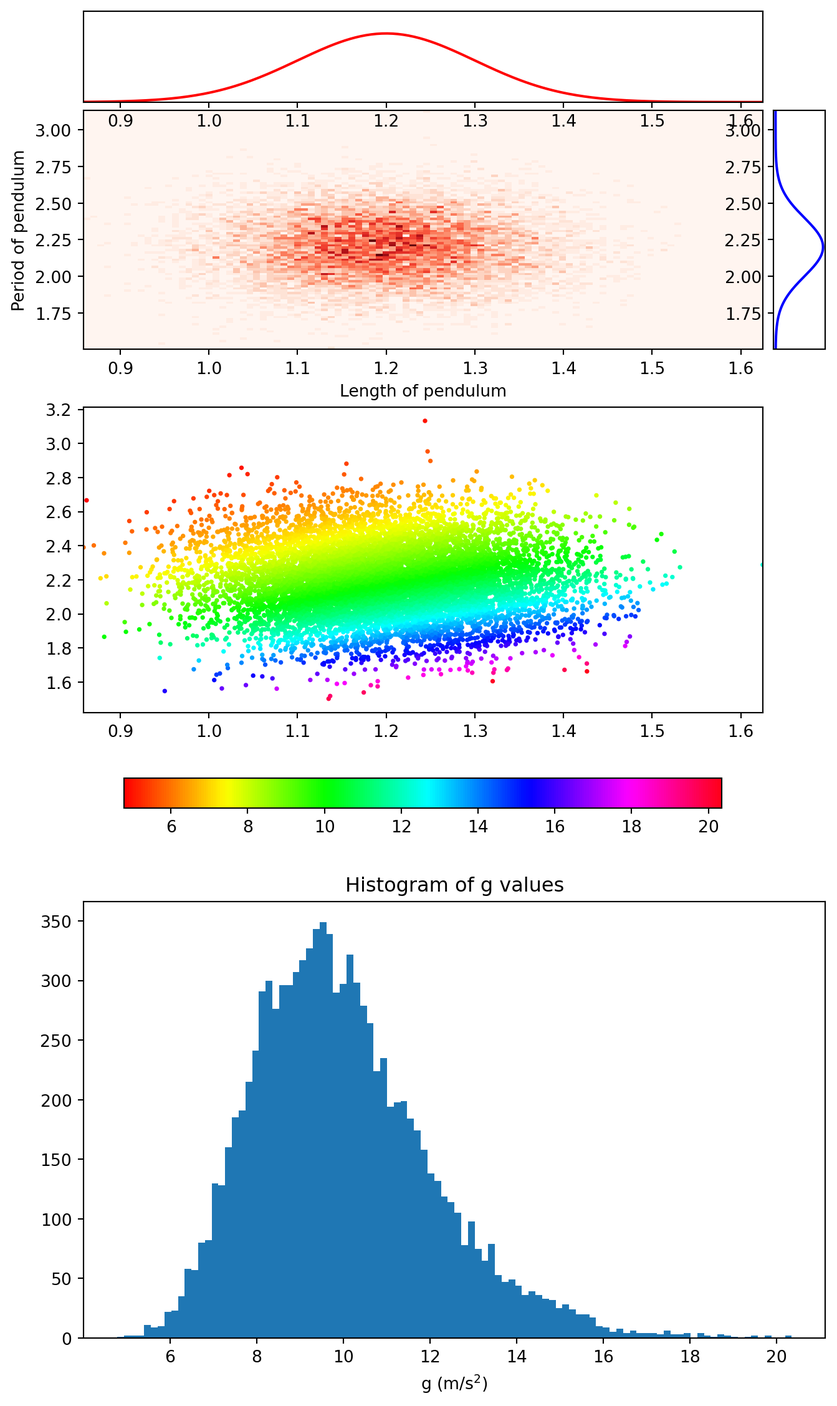
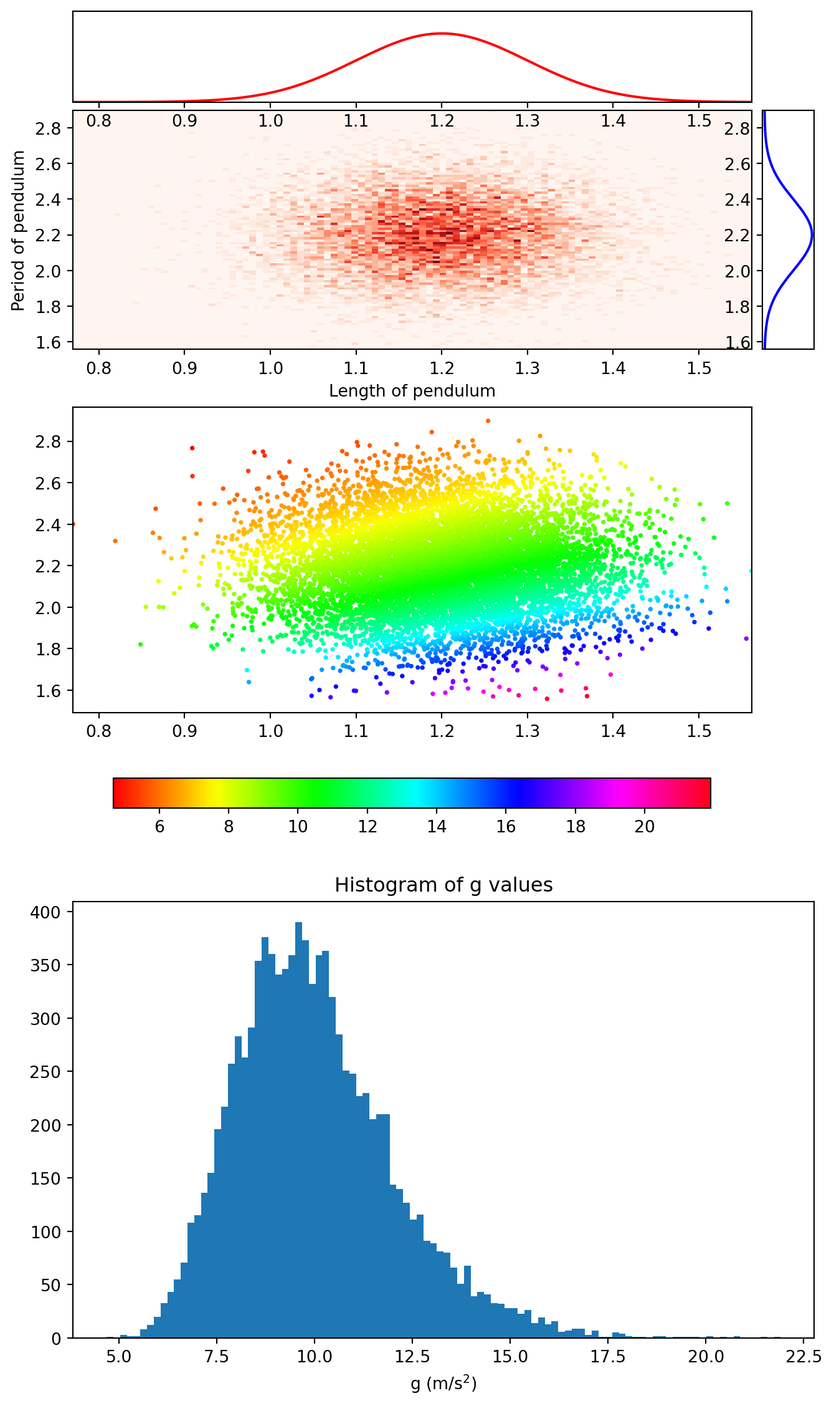
Minor tweaks in lab 9

diff --git a/docs/labs/Lab9-One-D-Eulers-Uncertainty/L9-One-D-Eulers-Uncertainty.html b/docs/labs/Lab9-One-D-Eulers-Uncertainty/L9-One-D-Eulers-Uncertainty.html
@@ -252,17 +252,16 @@ pre > code.sourceCode > span > a:first-child::before { text-decoration: underlin
   <li><a href="#activity-i-modeling-the-balloons-motion-eulers-method" id="toc-activity-i-modeling-the-balloons-motion-eulers-method" class="nav-link" data-scroll-target="#activity-i-modeling-the-balloons-motion-eulers-method">Activity I: Modeling the balloon’s motion (Euler’s Method)</a>
   <ul class="collapse">
   <li><a href="#goal-overview" id="toc-goal-overview" class="nav-link" data-scroll-target="#goal-overview">Goal (Overview)</a></li>
-  <li><a href="#procedure" id="toc-procedure" class="nav-link" data-scroll-target="#procedure">Procedure</a></li>
   </ul></li>
   <li><a href="#activity-ii-including-uncertainty" id="toc-activity-ii-including-uncertainty" class="nav-link" data-scroll-target="#activity-ii-including-uncertainty">Activity II: Including Uncertainty</a>
   <ul class="collapse">
   <li><a href="#goal-overview-1" id="toc-goal-overview-1" class="nav-link" data-scroll-target="#goal-overview-1">Goal (Overview)</a></li>
-  <li><a href="#procedure-1" id="toc-procedure-1" class="nav-link" data-scroll-target="#procedure-1">Procedure</a></li>
+  <li><a href="#procedure" id="toc-procedure" class="nav-link" data-scroll-target="#procedure">Procedure</a></li>
   </ul></li>
   <li><a href="#activity-iii-checking-our-prediction" id="toc-activity-iii-checking-our-prediction" class="nav-link" data-scroll-target="#activity-iii-checking-our-prediction">Activity III: Checking our Prediction</a>
   <ul class="collapse">
   <li><a href="#goal-overview-2" id="toc-goal-overview-2" class="nav-link" data-scroll-target="#goal-overview-2">Goal (Overview):</a></li>
-  <li><a href="#procedure-2" id="toc-procedure-2" class="nav-link" data-scroll-target="#procedure-2">Procedure</a></li>
+  <li><a href="#procedure-1" id="toc-procedure-1" class="nav-link" data-scroll-target="#procedure-1">Procedure</a></li>
   </ul></li>
   </ul>
 </nav>
@@ -362,12 +361,12 @@ F_D = {1\over 2} \rho_\text{air} A_\text{balloon} C |v| v
 <section id="while-loops" class="level3">
 <h3 class="anchored" data-anchor-id="while-loops"><code>While</code> Loops</h3>
 <p>Last week we used a <code>for</code> loop with Euler’s method, which was a good first choice because its easy to understand. However a <code>for</code> loop is often a clunky approach because we often don’t know how many iterations need to be performed to achieve the desired result. For example, last week we showed an example of Euler’s method for a particle launched straight upward and allowed to travel up and then come back down and hit the ground. Instead of performing a specified number of iterations of this loop, it would be nice to let the loop continue until the particle hit the ground. We can do this with a <code>while</code> loop which has the following basic structure:</p>
-<div class="cell" data-execution_count="2">
+<div class="cell" data-execution_count="1">
 <div class="sourceCode cell-code" id="cb1"><pre class="sourceCode python code-with-copy"><code class="sourceCode python"><span id="cb1-1"><a href="#cb1-1" aria-hidden="true" tabindex="-1"></a><span class="cf">while</span> <span class="op">&lt;</span>stopping condition<span class="op">&gt;</span></span>
 <span id="cb1-2"><a href="#cb1-2" aria-hidden="true" tabindex="-1"></a>     <span class="op">&lt;</span>Body of loop<span class="op">&gt;</span></span></code><button title="Copy to Clipboard" class="code-copy-button"><i class="bi"></i></button></pre></div>
 </div>
 <p>The <code>&lt;stopping condition&gt;</code> is a statement that determines whether the loop will continue to run or not. If the statement evaluates to <code>True</code>, the loop continues and if it evaluates to <code>False</code>, it will stop. As a simple example let’s use a <code>while</code> loop find the first 20 numbers in the fibonacci sequence:</p>
-<div class="cell" data-execution_count="3">
+<div class="cell" data-execution_count="2">
 <div class="sourceCode cell-code" id="cb2"><pre class="sourceCode python code-with-copy"><code class="sourceCode python"><span id="cb2-1"><a href="#cb2-1" aria-hidden="true" tabindex="-1"></a>previous <span class="op">=</span> <span class="dv">1</span> <span class="co"># First number in the Fibonacci sequence</span></span>
 <span id="cb2-2"><a href="#cb2-2" aria-hidden="true" tabindex="-1"></a>current <span class="op">=</span> <span class="dv">1</span> <span class="co"># Second number in the Fibonacci sequence</span></span>
 <span id="cb2-3"><a href="#cb2-3" aria-hidden="true" tabindex="-1"></a>n <span class="op">=</span> <span class="dv">2</span></span>
@@ -380,7 +379,7 @@ F_D = {1\over 2} \rho_\text{air} A_\text{balloon} C |v| v
 </div>
 <p>The stopping condition for this loop is <code>n &lt; 20</code>, where <code>n</code> is counting how many numbers in the sequence have been found so far. This variable starts off with a value of <span class="math inline">\(2\)</span> and increases by <span class="math inline">\(1\)</span> every time that another number is found. Once the value of <code>n</code> reaches <span class="math inline">\(20\)</span>, the statement <code>n &lt; 20</code> produces a <code>False</code> and the loop terminates.</p>
 <p><code>while</code> loops should be used with caution because you can easily write a <em>faulty stopping condition</em> and inadvertently write a loop that runs forever. This happens because your stopping condition was never met. For example, if the statement <code>n = n + 1</code> were omitted in the code above, <code>n</code> would never change and the stopping condition <code>n &lt; 20</code> would never evaluate to <code>False</code> and the loop will run forever. To avoid this, you should always get in the habit of building a fail safe into your while loops. To build a fail safe, first define a variable that counts the number of loop iterations. Then add an <code>if</code> statement inside the loop body to check to see if the value of the counter variable becomes too large. A <code>break</code> statement is used in this case to exit the loop. Below is an example of the loop above with faulty termination logic but with a fail safe to prevent it from looping forever.</p>
-<div class="cell" data-execution_count="4">
+<div class="cell" data-execution_count="3">
 <div class="sourceCode cell-code" id="cb3"><pre class="sourceCode python code-with-copy"><code class="sourceCode python"><span id="cb3-1"><a href="#cb3-1" aria-hidden="true" tabindex="-1"></a>previous <span class="op">=</span> <span class="dv">1</span> <span class="co"># First number in the Fibonacci sequence</span></span>
 <span id="cb3-2"><a href="#cb3-2" aria-hidden="true" tabindex="-1"></a>current <span class="op">=</span> <span class="dv">1</span> <span class="co"># Second number in the Fibonacci sequence</span></span>
 <span id="cb3-3"><a href="#cb3-3" aria-hidden="true" tabindex="-1"></a>n <span class="op">=</span> <span class="dv">2</span></span>
@@ -396,7 +395,7 @@ F_D = {1\over 2} \rho_\text{air} A_\text{balloon} C |v| v
 <span id="cb3-13"><a href="#cb3-13" aria-hidden="true" tabindex="-1"></a>    <span class="bu">print</span>(nextN)</span></code><button title="Copy to Clipboard" class="code-copy-button"><i class="bi"></i></button></pre></div>
 </div>
 <p>To use a <code>while</code> loop in Euler’s method for a projectile that is going to hit the ground, we should use the stopping condition <code>y[-1] &gt; 0</code> so that the loop terminates once the position of the projectile becomes negative. The example from last week with the modifications to use a <code>while</code> loop is given below. Notice also that since we no long use the loop variable <code>i</code>, we can’t use it to index the position and velocity lists. Instead we use <code>v[-1]</code> and <code>y[-1]</code> to access the last element in each of these lists.</p>
-<div class="cell" data-execution_count="5">
+<div class="cell" data-execution_count="4">
 <div class="sourceCode cell-code" id="cb4"><pre class="sourceCode python code-with-copy"><code class="sourceCode python"><span id="cb4-1"><a href="#cb4-1" aria-hidden="true" tabindex="-1"></a><span class="co"># Import statements</span></span>
 <span id="cb4-2"><a href="#cb4-2" aria-hidden="true" tabindex="-1"></a><span class="im">import</span> numpy <span class="im">as</span> np </span>
 <span id="cb4-3"><a href="#cb4-3" aria-hidden="true" tabindex="-1"></a><span class="im">import</span> matplotlib.pyplot <span class="im">as</span> plt</span>
@@ -439,23 +438,23 @@ F_D = {1\over 2} \rho_\text{air} A_\text{balloon} C |v| v
 <section id="propagating-uncertainty---random-numbers" class="level3">
 <h3 class="anchored" data-anchor-id="propagating-uncertainty---random-numbers">Propagating Uncertainty - Random numbers</h3>
 <p>A centeral theme in this class is that of propagating uncertainty. When performing numerical simulations, the uncertainties in the measured quantities used will propagate through to the final result. As a simple example, recall the equation for the acceleration due to gravity (<span class="math inline">\(g\)</span>) in terms of the lengthe of a pendulum (<span class="math inline">\(L\)</span>) and its period (<span class="math inline">\(T\)</span>): <span class="math inline">\(g = {4 \pi^2 L \over T^2}\)</span>. Imagine collecting (L,T) data pairs and wanting to use them to determine the uncertainty on the value of <span class="math inline">\(g\)</span>. This situation is depicted graphically in the figures below.</p>
-<div class="cell" data-execution_count="6">
+<div class="cell" data-execution_count="5">
 <div class="cell-output cell-output-display" data-execution_count="2">
 <pre><code>Text(0.5, 0, 'g (m/s$^2$)')</code></pre>
 </div>
 <div class="cell-output cell-output-display">
-<p><img src="L9-One-D-Eulers-Uncertainty_files/figure-html/cell-6-output-2.png" width="672" height="1128"></p>
+<p><img src="L9-One-D-Eulers-Uncertainty_files/figure-html/cell-6-output-2.png" width="670" height="1128"></p>
 </div>
 </div>
 <p>The top figures represent the distribution of the (L,T) pairs and the one-dimensional projections. The second figure shows the same data as the top figure but now the value of g for each (L,T) data pair is represented by the color of the plot point. Finally the final figure gives the histogram of g values. The standard deviation of this final data set could be used as the uncertainty on <span class="math inline">\(g\)</span>. So to propagate uncertainty in a numerical calculation we should <strong>run Euler’s method many times, each time starting with a different set of initial conditions.</strong> When selecting a value for the initial condition we should generate a random number from the appropriate distribution. This can be accomplished by placing your Euler’s loop from last week into <em>another loop</em>, called the outer loop.</p>
 <p>To generate a random number from a normal distribution in Python, use the <code>norm.rvs</code> function (short for random variate sample) from the <code>scipy.stats</code> module. (Example below)</p>
-<div class="cell" data-execution_count="7">
+<div class="cell" data-execution_count="6">
 <div class="sourceCode cell-code" id="cb7"><pre class="sourceCode python code-with-copy"><code class="sourceCode python"><span id="cb7-1"><a href="#cb7-1" aria-hidden="true" tabindex="-1"></a><span class="im">import</span> scipy.stats <span class="im">as</span> sp</span>
 <span id="cb7-2"><a href="#cb7-2" aria-hidden="true" tabindex="-1"></a></span>
 <span id="cb7-3"><a href="#cb7-3" aria-hidden="true" tabindex="-1"></a>randomNumber <span class="op">=</span> sp.norm.rvs(loc <span class="op">=</span> <span class="dv">5</span>,scale <span class="op">=</span> <span class="fl">0.5</span>)</span>
 <span id="cb7-4"><a href="#cb7-4" aria-hidden="true" tabindex="-1"></a><span class="bu">print</span>(randomNumber)</span></code><button title="Copy to Clipboard" class="code-copy-button"><i class="bi"></i></button></pre></div>
 <div class="cell-output cell-output-stdout">
-<pre><code>5.1571447549094485</code></pre>
+<pre><code>4.874858274023304</code></pre>
 </div>
 </div>
 <p>The <code>loc</code> keyword argument specifies the mean of the distribution (<span class="math inline">\(\mu\)</span>) and the <code>scale</code> keyword argument specifies the standard deviation of the distribution (<span class="math inline">\(\sigma\)</span>).</p>
@@ -465,31 +464,10 @@ F_D = {1\over 2} \rho_\text{air} A_\text{balloon} C |v| v
 <h2 class="anchored" data-anchor-id="activity-i-modeling-the-balloons-motion-eulers-method">Activity I: Modeling the balloon’s motion (Euler’s Method)</h2>
 <section id="goal-overview" class="level3">
 <h3 class="anchored" data-anchor-id="goal-overview">Goal (Overview)</h3>
-<p>Modify your code from last week to incorporate the buoyant force experienced by the weather balloon.</p>
-</section>
-<section id="procedure" class="level3">
-<h3 class="anchored" data-anchor-id="procedure">Procedure</h3>
-<ol type="1">
-<li>Measure the mass of the balloon before we fill it with helium. Record a value and an uncertainty.</li>
-<li>We’ll be adding a small payload to the balloon and adjusting it until the time of flight falls in a reasonable range. For now, set the mass of the payload to be <span class="math inline">\(m_p = 15\)</span> grams. We’ll modify this number later.</li>
-<li>Measure the temperature in the room and <strong>assign an uncertainty to this measurement</strong>. Convert this temperature to Kelvins using the equation below. Then record this number in the code cell provided below. <span class="math display">\[ T_K = {5 \over 9}(T_F - 32) + 273.15\]</span></li>
-<li>Visit a weather website to look up the atmospheric pressure here in Rexburg. You’ll probably see a number with units of “inHg”, which means “inches of Mercury”. To convert this pressure into Pascals, use the equation below. (The <span class="math inline">\(4.865\)</span> is to undo the sea-level correction and the <span class="math inline">\(3386.39\)</span> is to convert from “inHg” to Pascals.) Record this value in the code cell provided below. <span class="math display">\[ P_\text{Pa} = 3386.39 \times (P_\text{inHg} - 4.865) \]</span></li>
-<li>Enter values for <span class="math inline">\(T_0\)</span> <span class="math inline">\(P_0\)</span> in the code cell below using the values shown above.</li>
-<li>Enter the expression for density given above into the code cell provided below for the density of air and helium.</li>
-<li>Enter the expression for <span class="math inline">\(V\)</span> and <span class="math inline">\(A\)</span> in the code cell below in terms of <span class="math inline">\(d\)</span> (diameter).</li>
-<li>Enter the expression for <span class="math inline">\(F_b\)</span> (the buoyant force) in the code cell below using the equation provided above.</li>
-<li>Enter the expression for <span class="math inline">\(F_g\)</span> (the weights) in the code cell below using the equation provided above.</li>
-<li>Enter the expression for <span class="math inline">\(F_D\)</span> (the drag force) in the code cell below using the equation provided above. As a reminder, the equation should be: <span class="math display">\[
+<p>Modify your code from last week to incorporate the buoyant force experienced by the weather balloon. git c ### Procedure 1. Measure the mass of the balloon before we fill it with helium. Record a value and an uncertainty. 2. We’ll be adding a small payload to the balloon and adjusting it until the time of flight falls in a reasonable range. For now, set the mass of the payload to be <span class="math inline">\(m_p = 15\)</span> grams. We’ll modify this number later. 3. Measure the temperature in the room and <strong>assign an uncertainty to this measurement</strong>. Convert this temperature to Kelvins using the equation below. Then record this number in the code cell provided below. <span class="math display">\[ T_K = {5 \over 9}(T_F - 32) + 273.15\]</span> 4. Visit a weather website to look up the atmospheric pressure here in Rexburg. You’ll probably see a number with units of “inHg”, which means “inches of Mercury”. To convert this pressure into Pascals, use the equation below. (The <span class="math inline">\(4.865\)</span> is to undo the sea-level correction and the <span class="math inline">\(3386.39\)</span> is to convert from “inHg” to Pascals.) Record this value in the code cell provided below. <span class="math display">\[ P_\text{Pa} = 3386.39 \times (P_\text{inHg} - 4.865) \]</span> 5. Enter values for <span class="math inline">\(T_0\)</span> <span class="math inline">\(P_0\)</span> in the code cell below using the values shown above. 6. Enter the expression for density given above into the code cell provided below for the density of air and helium. 7. Enter the expression for <span class="math inline">\(V\)</span> and <span class="math inline">\(A\)</span> in the code cell below in terms of <span class="math inline">\(d\)</span> (diameter). 8. Enter the expression for <span class="math inline">\(F_b\)</span> (the buoyant force) in the code cell below using the equation provided above. 9. Enter the expression for <span class="math inline">\(F_g\)</span> (the weights) in the code cell below using the equation provided above. 10. Enter the expression for <span class="math inline">\(F_D\)</span> (the drag force) in the code cell below using the equation provided above. As a reminder, the equation should be: <span class="math display">\[
 {1\over 2} \; C \rho A |v| v
-\]</span></li>
-<li>Enter the expression for <span class="math inline">\(a\)</span> (the acceleration) in the code cell below using the equation provided above. Note that since the acceleration is not constant the calculation must be performed inside the main Euler’s loop.</li>
-<li>Following the same pattern from last week, add expressions to update the velocity, position, and time inside the main Euler’s loop.</li>
-<li>Check with your neighbor and/or B. Nelson to ensure you have done these steps correctly before moving on.</li>
-<li>Have B. Nelson fill your balloon with helium. Once it is filled, devise a method for determining the diameter of the balloon. Record the value and its uncertainty in the code cell below. (Note: The helium will slowly diffuse out of the balloon, so you won’t want much time to pass between when you fill your balloon and when you test your prediction)</li>
-<li>Run your code and verify that your results are reasonable.</li>
-<li>Using trial and error, adjust the mass of the payload until the time of flight is in the <span class="math inline">\(6-10\)</span> seconds range.</li>
-</ol>
-<div class="cell" data-execution_count="8">
+\]</span> 11. Enter the expression for <span class="math inline">\(a\)</span> (the acceleration) in the code cell below using the equation provided above. Note that since the acceleration is not constant the calculation must be performed inside the main Euler’s loop. 12. Following the same pattern from last week, add expressions to update the velocity, position, and time inside the main Euler’s loop. 13. Check with your neighbor and/or B. Nelson to ensure you have done these steps correctly before moving on. 14. Have B. Nelson fill your balloon with helium. Once it is filled, devise a method for determining the diameter of the balloon. Record the value and its uncertainty in the code cell below. (Note: The helium will slowly diffuse out of the balloon, so you won’t want much time to pass between when you fill your balloon and when you test your prediction) 15. Run your code and verify that your results are reasonable. 16. Using trial and error, adjust the mass of the payload until the time of flight is in the <span class="math inline">\(6-10\)</span> seconds range.</p>
+<div class="cell" data-execution_count="7">
 <div class="sourceCode cell-code" id="cb9"><pre class="sourceCode python code-with-copy"><code class="sourceCode python"><span id="cb9-1"><a href="#cb9-1" aria-hidden="true" tabindex="-1"></a><span class="im">import</span> numpy <span class="im">as</span> np</span>
 <span id="cb9-2"><a href="#cb9-2" aria-hidden="true" tabindex="-1"></a><span class="im">import</span> matplotlib.pyplot <span class="im">as</span> plt</span>
 <span id="cb9-3"><a href="#cb9-3" aria-hidden="true" tabindex="-1"></a></span>
@@ -514,14 +492,14 @@ F_D = {1\over 2} \rho_\text{air} A_\text{balloon} C |v| v
 <span id="cb9-22"><a href="#cb9-22" aria-hidden="true" tabindex="-1"></a>Fb <span class="op">=</span>   <span class="co"># Buoyant Force (N).</span></span>
 <span id="cb9-23"><a href="#cb9-23" aria-hidden="true" tabindex="-1"></a></span>
 <span id="cb9-24"><a href="#cb9-24" aria-hidden="true" tabindex="-1"></a>g <span class="op">=</span> <span class="fl">9.8</span>  <span class="co"># Acceleration due to gravity (m/s^2)</span></span>
-<span id="cb9-25"><a href="#cb9-25" aria-hidden="true" tabindex="-1"></a>Fg <span class="op">=</span>   <span class="co"># Weight of helium + payload + balloon (N).</span></span>
-<span id="cb9-26"><a href="#cb9-26" aria-hidden="true" tabindex="-1"></a></span>
-<span id="cb9-27"><a href="#cb9-27" aria-hidden="true" tabindex="-1"></a>mt <span class="op">=</span> mp <span class="op">+</span> mb <span class="op">+</span> ρh <span class="op">*</span> V   <span class="co"># Total mass (kg).</span></span>
+<span id="cb9-25"><a href="#cb9-25" aria-hidden="true" tabindex="-1"></a>mt <span class="op">=</span> mp <span class="op">+</span> mb <span class="op">+</span> ρh <span class="op">*</span> V   <span class="co"># Total mass (kg).</span></span>
+<span id="cb9-26"><a href="#cb9-26" aria-hidden="true" tabindex="-1"></a>Fg <span class="op">=</span>   <span class="co"># Weight of helium + payload + balloon (N).</span></span>
+<span id="cb9-27"><a href="#cb9-27" aria-hidden="true" tabindex="-1"></a></span>
 <span id="cb9-28"><a href="#cb9-28" aria-hidden="true" tabindex="-1"></a>dt <span class="op">=</span>     <span class="co"># Time step (s).</span></span>
 <span id="cb9-29"><a href="#cb9-29" aria-hidden="true" tabindex="-1"></a></span>
 <span id="cb9-30"><a href="#cb9-30" aria-hidden="true" tabindex="-1"></a>y <span class="op">=</span> []     <span class="co"># Initial height of balloon (meters).</span></span>
 <span id="cb9-31"><a href="#cb9-31" aria-hidden="true" tabindex="-1"></a>v <span class="op">=</span> [<span class="dv">0</span>]    <span class="co"># Initial speed of balloon (m/s).</span></span>
-<span id="cb9-32"><a href="#cb9-32" aria-hidden="true" tabindex="-1"></a>a <span class="op">=</span> [ (ρa <span class="op">*</span> V <span class="op">*</span> g <span class="op">-</span> mt <span class="op">*</span> g)<span class="op">/</span>mt]  <span class="co">#Initial acceleration of the balloon</span></span>
+<span id="cb9-32"><a href="#cb9-32" aria-hidden="true" tabindex="-1"></a>a <span class="op">=</span> [ (Fb <span class="op">-</span> Fg)<span class="op">/</span>mt]  <span class="co">#Initial acceleration of the balloon</span></span>
 <span id="cb9-33"><a href="#cb9-33" aria-hidden="true" tabindex="-1"></a>t <span class="op">=</span> [<span class="dv">0</span>]</span>
 <span id="cb9-34"><a href="#cb9-34" aria-hidden="true" tabindex="-1"></a>yCeiling <span class="op">=</span>   <span class="co"># Height of the ceiling (meters)</span></span>
 <span id="cb9-35"><a href="#cb9-35" aria-hidden="true" tabindex="-1"></a></span>
@@ -552,8 +530,8 @@ F_D = {1\over 2} \rho_\text{air} A_\text{balloon} C |v| v
 <h3 class="anchored" data-anchor-id="goal-overview-1">Goal (Overview)</h3>
 <p>Using the uncertainties that you assigned to your measured values from Activity I, use Euler’s method to calculate the uncertainty in the flight time.</p>
 </section>
-<section id="procedure-1" class="level3">
-<h3 class="anchored" data-anchor-id="procedure-1">Procedure</h3>
+<section id="procedure" class="level3">
+<h3 class="anchored" data-anchor-id="procedure">Procedure</h3>
 <p>To incorporate uncertainty into Euler’s method, you must repeat your Euler’s loop many times using different values for those quantities that carry uncertainty. In the code cell below you will find a template for doing this. Follow the instructions below to complete the task.</p>
 <ol type="1">
 <li>You’ll notice that the variable names in the code cell have been modified from what they were in Activity I. Instead of “mb” for mass of the balloon, we now have “meanmb” for mean mass of the balloon and “dmb” for uncertainty (or standard deviation) in the mass of the balloon. Transfer all of your measurements and uncertainties from Activity I into the code cell below.</li>
@@ -564,7 +542,7 @@ F_D = {1\over 2} \rho_\text{air} A_\text{balloon} C |v| v
 <li>Run your code and observe the results. Notice the spread in travel times depicted on the position vs.&nbsp;time graph. (Cool eh!)</li>
 </ol>
 <p>Note: The uncertainty in your balloon diameter will be the biggest contributor to the uncertainty in the predicted flight time.</p>
-<div class="cell" data-execution_count="9">
+<div class="cell" data-execution_count="8">
 <div class="sourceCode cell-code" id="cb10"><pre class="sourceCode python code-with-copy"><code class="sourceCode python"><span id="cb10-1"><a href="#cb10-1" aria-hidden="true" tabindex="-1"></a><span class="im">import</span> numpy <span class="im">as</span> np</span>
 <span id="cb10-2"><a href="#cb10-2" aria-hidden="true" tabindex="-1"></a><span class="im">import</span> scipy.stats <span class="im">as</span> sp</span>
 <span id="cb10-3"><a href="#cb10-3" aria-hidden="true" tabindex="-1"></a><span class="im">import</span> matplotlib.pyplot <span class="im">as</span> plt</span>
@@ -618,15 +596,15 @@ F_D = {1\over 2} \rho_\text{air} A_\text{balloon} C |v| v
 <span id="cb10-51"><a href="#cb10-51" aria-hidden="true" tabindex="-1"></a>    V <span class="op">=</span>     <span class="co"># Volume of balloon (m^3).</span></span>
 <span id="cb10-52"><a href="#cb10-52" aria-hidden="true" tabindex="-1"></a>    A <span class="op">=</span>       <span class="co"># Cross-sectional area of balloon (m^3)</span></span>
 <span id="cb10-53"><a href="#cb10-53" aria-hidden="true" tabindex="-1"></a></span>
-<span id="cb10-54"><a href="#cb10-54" aria-hidden="true" tabindex="-1"></a>    mt <span class="op">=</span> mb <span class="op">+</span> mp <span class="op">+</span> ρh <span class="op">*</span> V</span>
-<span id="cb10-55"><a href="#cb10-55" aria-hidden="true" tabindex="-1"></a>    ρa <span class="op">=</span>    <span class="co"># Density of air (kg/m^3)</span></span>
-<span id="cb10-56"><a href="#cb10-56" aria-hidden="true" tabindex="-1"></a>    ρh <span class="op">=</span>   <span class="co"># Density of Helium (kg/m^3)</span></span>
+<span id="cb10-54"><a href="#cb10-54" aria-hidden="true" tabindex="-1"></a>    ρa <span class="op">=</span>    <span class="co"># Density of air (kg/m^3)</span></span>
+<span id="cb10-55"><a href="#cb10-55" aria-hidden="true" tabindex="-1"></a>    ρh <span class="op">=</span>   <span class="co"># Density of Helium (kg/m^3)</span></span>
+<span id="cb10-56"><a href="#cb10-56" aria-hidden="true" tabindex="-1"></a>    mt <span class="op">=</span> mb <span class="op">+</span> mp <span class="op">+</span> ρh <span class="op">*</span> V</span>
 <span id="cb10-57"><a href="#cb10-57" aria-hidden="true" tabindex="-1"></a>    Fb <span class="op">=</span>   <span class="co"># Buoyant Force (N).</span></span>
 <span id="cb10-58"><a href="#cb10-58" aria-hidden="true" tabindex="-1"></a>    Fg <span class="op">=</span>   <span class="co"># Weight of helium + payload + balloon (N).</span></span>
 <span id="cb10-59"><a href="#cb10-59" aria-hidden="true" tabindex="-1"></a>    </span>
 <span id="cb10-60"><a href="#cb10-60" aria-hidden="true" tabindex="-1"></a>    y <span class="op">=</span> [d]     <span class="co"># Initial height of balloon (meters).</span></span>
 <span id="cb10-61"><a href="#cb10-61" aria-hidden="true" tabindex="-1"></a>    v <span class="op">=</span> [<span class="dv">0</span>]     <span class="co"># Initial velocity of balloon (m/s).</span></span>
-<span id="cb10-62"><a href="#cb10-62" aria-hidden="true" tabindex="-1"></a>    a <span class="op">=</span> [(ρa <span class="op">*</span> V <span class="op">*</span> g <span class="op">-</span> mt <span class="op">*</span> g)<span class="op">/</span>mt]</span>
+<span id="cb10-62"><a href="#cb10-62" aria-hidden="true" tabindex="-1"></a>    a <span class="op">=</span> [(Fb <span class="op">-</span> Fg)<span class="op">/</span>mt]</span>
 <span id="cb10-63"><a href="#cb10-63" aria-hidden="true" tabindex="-1"></a>    t <span class="op">=</span> [<span class="dv">0</span>]     <span class="co"># Initial time (s).</span></span>
 <span id="cb10-64"><a href="#cb10-64" aria-hidden="true" tabindex="-1"></a>    </span>
 <span id="cb10-65"><a href="#cb10-65" aria-hidden="true" tabindex="-1"></a>    <span class="cf">if</span> Fb <span class="op">&lt;</span> Fg:  <span class="co"># If the buoyant force isn't enough to lift the balloon, don't run Euler's method.</span></span>
@@ -653,8 +631,8 @@ F_D = {1\over 2} \rho_\text{air} A_\text{balloon} C |v| v
 <h3 class="anchored" data-anchor-id="goal-overview-2">Goal (Overview):</h3>
 <p>The balloon will be released and allowed to accelerate upwards towards the ceiling. The flight time will be measured and compared against the predicted flight time from Activity II.</p>
 </section>
-<section id="procedure-2" class="level3">
-<h3 class="anchored" data-anchor-id="procedure-2">Procedure</h3>
+<section id="procedure-1" class="level3">
+<h3 class="anchored" data-anchor-id="procedure-1">Procedure</h3>
 <ol type="1">
 <li>Transfer the average flight time calculated in Activity II with its associated uncertainty into the table below.</li>
 <li>Release the balloon from your pre-selected initial height and use a stopwatch to time the flight. Repeat the flight at least 5 times and calculate the average and standard deviation of the mean of your data. Record the mean and standard deviation of the mean in the table below.</li>
